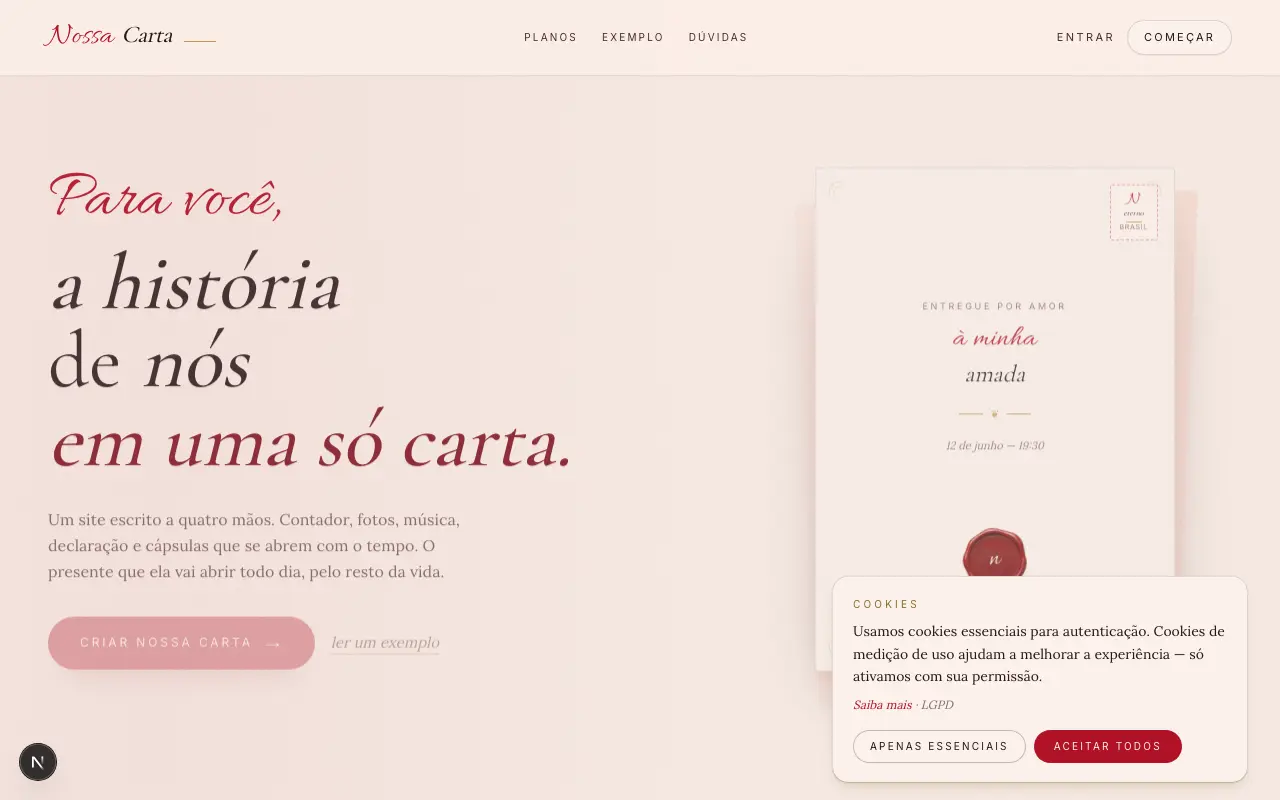
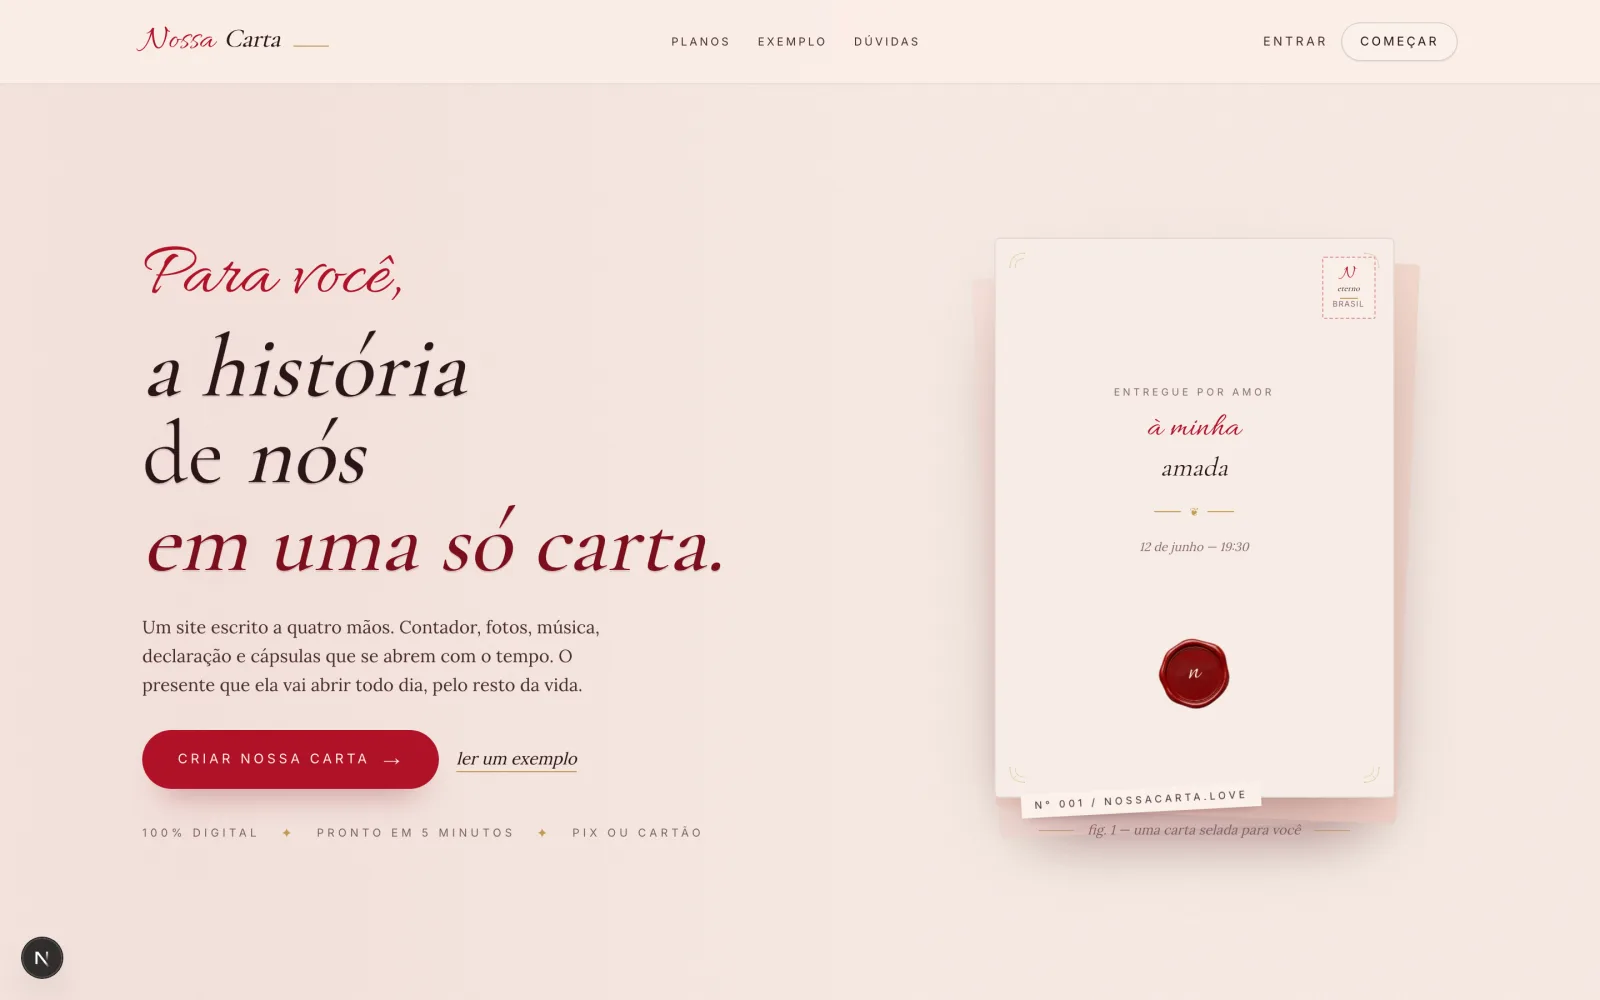
feat: adicionar telas reais do NossaCarta (landing capturada)
- Captura hero, recursos, planos e FAQ da landing rodando localmente
- NossaCarta passa de 1 para 4 screenshots no portfólio

diff --git a/data/featured-projects.ts b/data/featured-projects.ts
@@ -252,11 +252,23 @@ export const featuredProjects: FeaturedProject[] = [
     stack: ['Next.js', 'TypeScript', 'Supabase', 'Tailwind CSS', 'Spotify API', 'AbacatePay'],
     repoUrl: 'https://gitlab.com/diordan',
     imageUrl: '/projects/nossacarta/nossacarta-home.webp',
-    imageAlt: 'Landing page do NossaCarta com headline "Para você, a história de nós em uma só carta".',
+    imageAlt: 'Landing page do NossaCarta com headline "Para você, a história de nós em uma só carta" e preview do envelope.',
     images: [
       {
         src: '/projects/nossacarta/nossacarta-home.webp',
-        alt: 'Landing page do NossaCarta com headline "Para você, a história de nós em uma só carta".',
+        alt: 'Landing page do NossaCarta com headline "Para você, a história de nós em uma só carta" e preview do envelope.',
+      },
+      {
+        src: '/projects/nossacarta/nossacarta-recursos.webp',
+        alt: 'Seção de recursos do NossaCarta: ritual do envelope, trilha sonora do Spotify, galeria em alta, contador regressivo e QR code.',
+      },
+      {
+        src: '/projects/nossacarta/nossacarta-planos.webp',
+        alt: 'Seção de planos do NossaCarta com as opções "Sete dias de carta" (R$ 17,90) e "Para sempre" (R$ 29,90).',
+      },
+      {
+        src: '/projects/nossacarta/nossacarta-faq.webp',
+        alt: 'Seção de perguntas frequentes e rodapé do NossaCarta com privacidade, segurança e links institucionais.',
       },
     ],
     featured: true,
